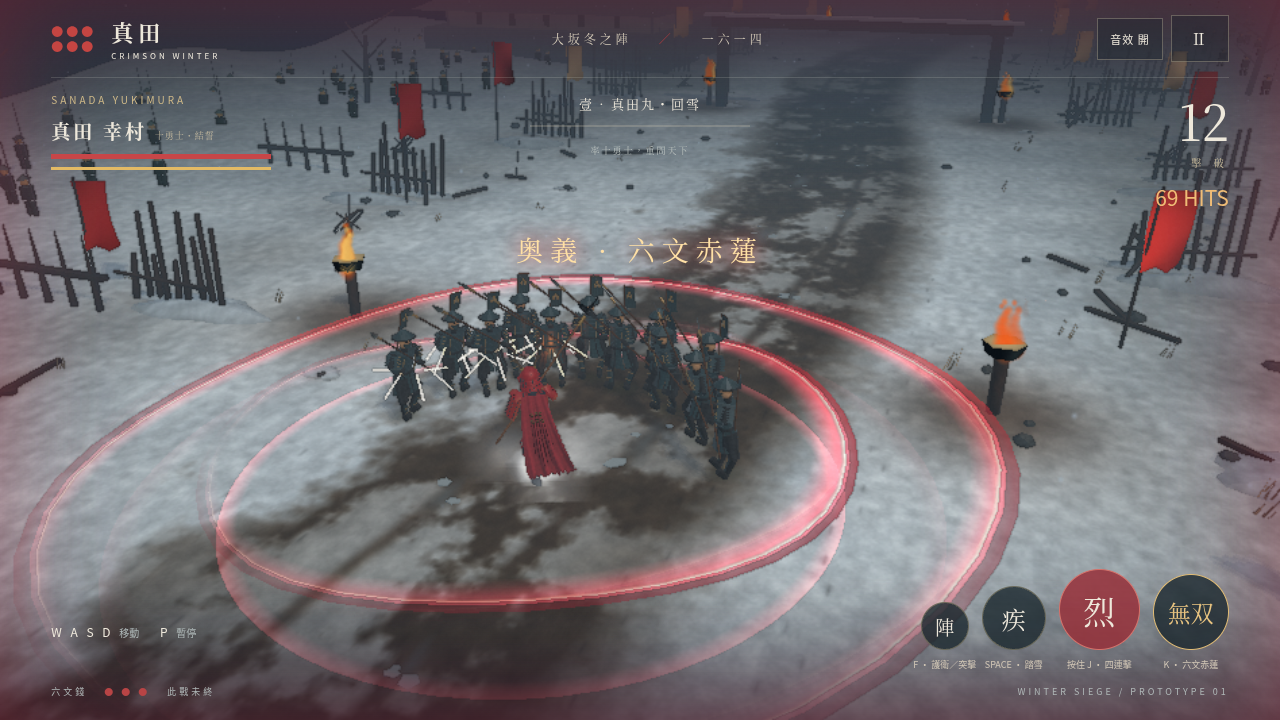
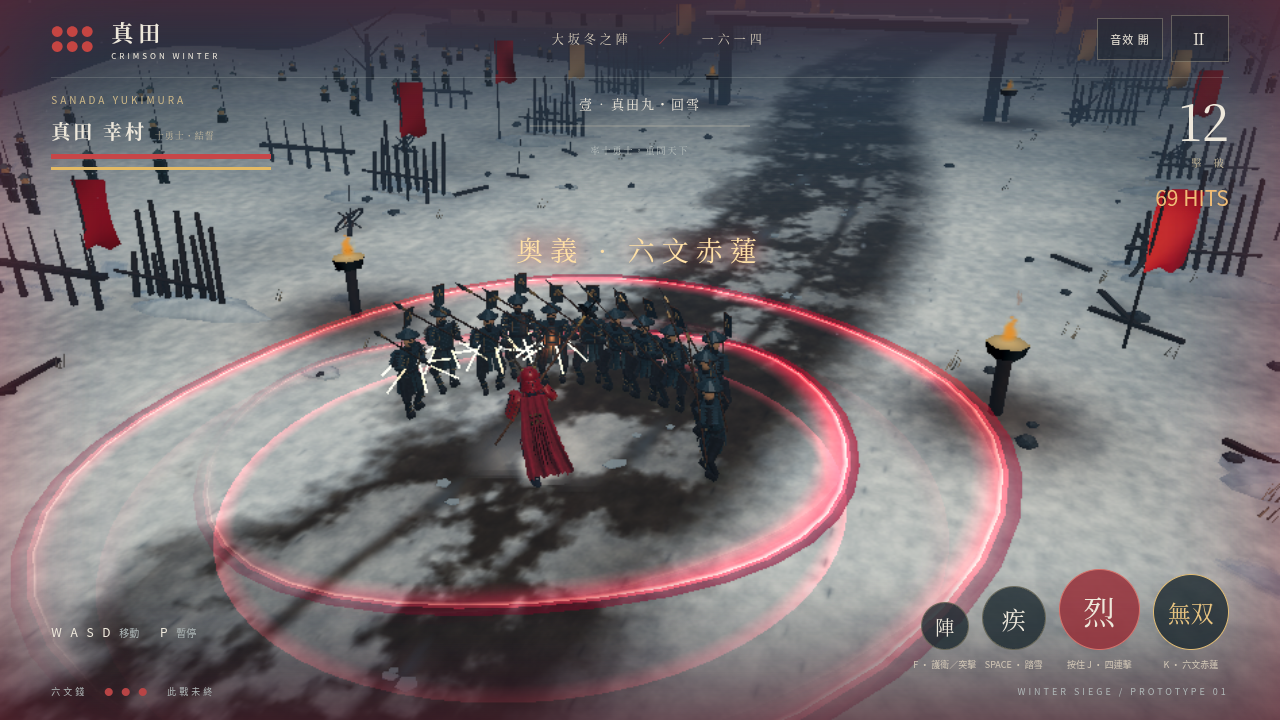
Add filmic lighting and masked lacquer with a mobile post-process budget

diff --git a/src/main.ts b/src/main.ts
@@ -7,6 +7,7 @@ import { BattleAudio } from './battle-audio';
 import { illustrationPass } from './illustration';
 import { battlefield } from './battlefield';
 import { winterReflections } from './lighting';
+import {finishMaterials} from './material-finish';
 import {winterWeather} from './winter-weather';
 import {battleFires} from './battle-fires';
 import {weatheredMaterials} from './environment-materials';
@@ -272,7 +273,7 @@ function visual(dt:number){
  weather.update(dt,target);
  if(announceTime>0){announceTime-=dt;$('announcement').style.opacity=String(Math.min(1,announceTime));}else $('announcement').style.opacity='0';
 }
-async function init(){try{const response=await fetch(`${import.meta.env.BASE_URL}models/crowd-animation.json?rev=storm-9`);if(!response.ok)throw Error('Crowd manifest unavailable');const crowdManifest: CrowdManifest=await response.json();const palettes=await loadPalettes(scene,crowdManifest,`${import.meta.env.BASE_URL}models/`);for(const name of ['yukimura','ashigaru','tokugawa','ieyasu']){const loaded=await SceneLoader.ImportMeshAsync('', `${import.meta.env.BASE_URL}models/`,name+'.glb?rev=storm-9',scene);templates[name]=loaded.meshes[0];templates[name].setEnabled(false);
+async function init(){try{const response=await fetch(`${import.meta.env.BASE_URL}models/crowd-animation.json?rev=storm-9`);if(!response.ok)throw Error('Crowd manifest unavailable');const crowdManifest: CrowdManifest=await response.json();const palettes=await loadPalettes(scene,crowdManifest,`${import.meta.env.BASE_URL}models/`);for(const name of ['yukimura','ashigaru','tokugawa','ieyasu']){const loaded=await SceneLoader.ImportMeshAsync('', `${import.meta.env.BASE_URL}models/`,name+'.glb?rev=storm-9',scene);finishMaterials(scene,loaded.meshes,name);loaded.meshes.forEach(mesh=>mesh.receiveShadows=true);templates[name]=loaded.meshes[0];templates[name].setEnabled(false);
  if(name==='yukimura'){
   // Use the loaded skinned mesh directly so clips target the visible rig.
   hero=new TransformNode('yukimura',scene);templates[name].parent=hero;
@@ -295,6 +296,6 @@ function tick(realDt:number){
 }
 engine.runRenderLoop(()=>{weather.pause(state==='paused'||manualTestClock);fires.pause(state==='paused'||manualTestClock);if(!manualTestClock)tick(Math.min(engine.getDeltaTime()/1000,.05));scene.render();});window.addEventListener('resize',()=>engine.resize());init();
 // Read-only diagnostics are useful for automated smoke tests and performance inspection.
-Object.defineProperty(window,'__sanada',{get:()=>({state,hp,rage,kills,cycle:cfg.cycle,position:hero?{x:hero.position.x,z:hero.position.z}:null,enemies:foes.filter(f=>!f.dead).length,allies:allies.length,models:Object.keys(templates),fps:engine.getFps(),formation,heroAnimation:heroMotion?.state,animationClips:heroMotion?.names,environment:{terrain:scene.getMaterialByName('churned snow and mud')?.getClassName(),staticCasters:staticCasters.length,weatherCapacity:weather.capacity,weatherActive:weather.active,terrainDetail:(scene.getMaterialByName('churned snow and mud') as PBRMaterial)?.detailMap.isEnabled,fireCapacity:fires.capacity,fireActive:fires.active},crowd:{actors:crowdMotions.size,instances:[...crowdMotions.values()].filter(m=>m.mesh.getClassName()==='InstancedMesh').length,allies:allies.map(a=>({state:crowdMotions.get(a)?.state,frame:crowdMotions.get(a)?.frame})),enemies:foes.map(f=>({state:crowdMotions.get(f.root)?.state,frame:crowdMotions.get(f.root)?.frame})),palettes:Object.keys(crowdModels).length},attackIndex:chain.active?.index??-1,attackHistory:[...attackHistory],totalHits,lastStrikeHits,hitStop,musouActive:musouTime>=0,musouPulse,airborne:foes.filter(f=>!f.dead&&f.root.position.y>.2).length,corpses:foes.filter(f=>f.dead).length,effects:combatFX.count,muted:audio.muted})});
+Object.defineProperty(window,'__sanada',{get:()=>({state,hp,rage,kills,cycle:cfg.cycle,position:hero?{x:hero.position.x,z:hero.position.z}:null,enemies:foes.filter(f=>!f.dead).length,allies:allies.length,models:Object.keys(templates),fps:engine.getFps(),formation,heroAnimation:heroMotion?.state,animationClips:heroMotion?.names,look:{toneMapping:scene.imageProcessingConfiguration.toneMappingEnabled,reflectionSize:scene.environmentTexture?.getSize().width,renderWidth:engine.getRenderWidth(),renderHeight:engine.getRenderHeight(),passes:camera._postProcesses.flatMap(p=>p?[{name:p.name,width:p.width,height:p.height,type:p.inputTexture?.texture?.type}]:[]),coats:scene.materials.filter(m=>m instanceof PBRMaterial&&m.clearCoat.isEnabled).map(m=>m.name)},environment:{terrain:scene.getMaterialByName('churned snow and mud')?.getClassName(),staticCasters:staticCasters.length,weatherCapacity:weather.capacity,weatherActive:weather.active,terrainDetail:(scene.getMaterialByName('churned snow and mud') as PBRMaterial)?.detailMap.isEnabled,fireCapacity:fires.capacity,fireActive:fires.active},crowd:{actors:crowdMotions.size,instances:[...crowdMotions.values()].filter(m=>m.mesh.getClassName()==='InstancedMesh').length,allies:allies.map(a=>({state:crowdMotions.get(a)?.state,frame:crowdMotions.get(a)?.frame})),enemies:foes.map(f=>({state:crowdMotions.get(f.root)?.state,frame:crowdMotions.get(f.root)?.frame})),palettes:Object.keys(crowdModels).length},attackIndex:chain.active?.index??-1,attackHistory:[...attackHistory],totalHits,lastStrikeHits,hitStop,musouActive:musouTime>=0,musouPulse,airborne:foes.filter(f=>!f.dead&&f.root.position.y>.2).length,corpses:foes.filter(f=>f.dead).length,effects:combatFX.count,muted:audio.muted})});
 
 if(import.meta.env.DEV && new URLSearchParams(location.search).has('test')){Object.defineProperty(window,'__sanadaTest',{value:{step:(seconds:number)=>{for(let t=0;t<seconds;t+=1/60){tick(1/60);}},setupCombat:(health=30)=>{manualTestClock=true;clearBattle();heroMotion.reset();dashCD=0;dashTime=0;invuln=0;hp=cfg.health;rage=100;hero.position.set(0,0,0);direction.set(0,0,1);spawnClock=60;allyCD=60;for(let i=0;i<12;i++){const a=(i-5.5)*.22;spawn(Math.sin(a)*3,Math.cos(a)*3);}for(const f of foes){f.hp=health;f.maxHp=health;f.cooldown=30;}},setupArmy:()=>{manualTestClock=true;clearBattle();heroMotion.reset();hero.position.set(0,0,0);spawnClock=60;invuln=999;for(let i=0;i<10;i++)allies.push(actor('ashigaru','red-guard',(i%5-2)*1.5,-5-Math.floor(i/5)*2));for(let i=0;i<100;i++){const a=i*Math.PI*2/25,r=8+Math.floor(i/25)*2;spawn(Math.sin(a)*r,Math.cos(a)*r);}updateHUD();},setupFalls:()=>{manualTestClock=true;clearBattle();heroMotion.reset();hero.position.set(0,0,0);spawnClock=60;invuln=999;for(let i=0;i<6;i++){spawn((i%3-1)*3,4+Math.floor(i/3)*3);const f=foes[foes.length-1];f.phase=.4+i;damageEnemy(f,999,2,i%2?2:0);}},inspectEnvironment:(z=0,close=false)=>{manualTestClock=true;clearBattle();heroMotion.reset();hero.position.set(0,0,z);shadowClock=0;visual(0);camera.position.set(close?10:17,close?7:14,z+(close?-8:-18));camera.setTarget(new Vector3(close?3:0,0,z+5));return scene.meshes.filter(m=>['dark meltwater in wheel ruts','thawed earth at object feet'].includes(m.material?.name??'')).map(m=>({name:m.material!.name,vertexAlpha:m.hasVertexAlpha,upward:m.getVerticesData(VertexBuffer.NormalKind)!.filter((_,i)=>i%3===1).every(y=>y>.99),vertices:m.getTotalVertices()}));},snapshot:()=>({falls:foes.filter(f=>f.dead).map(f=>({clip:f.deathClip,age:f.deathAge,duration:f.deathDuration,rootZ:f.root.rotation.z,scale:f.root.scaling.x,landed:f.landed})),bossSpawned,bossHP:foes.find(f=>f.boss)?.hp,enemyCount:foes.length,enemyHP:foes.map(f=>f.hp),heights:foes.map(f=>f.root.position.y),musouTime,attackTime:chain.active?.time??null})}});}

diff --git a/src/illustration.ts b/src/illustration.ts
@@ -2,35 +2,61 @@ import {Scene} from '@babylonjs/core/scene';
 import {Camera} from '@babylonjs/core/Cameras/camera';
 import {PostProcess} from '@babylonjs/core/PostProcesses/postProcess';
 import {Effect} from '@babylonjs/core/Materials/effect';
+import {ExtractHighlightsPostProcess} from '@babylonjs/core/PostProcesses/extractHighlightsPostProcess';
+import {BlurPostProcess} from '@babylonjs/core/PostProcesses/blurPostProcess';
+import {Vector2} from '@babylonjs/core/Maths/math.vector';
+import {Texture} from '@babylonjs/core/Materials/Textures/texture';
 
-/** Dry pigment, restrained ink edges and a cool-shadow/warm-paper palette. */
+/** One display-space grade on touch devices. Desktop adds three quarter-size
+ * native bloom stages; this same grade also merges them, without a second
+ * full-screen resolve. ACES is applied upstream by Babylon materials. */
 export function illustrationPass(scene:Scene,camera:Camera){
+ const bloom=!matchMedia('(pointer:coarse)').matches;
+ let highlights:ExtractHighlightsPostProcess|undefined;
+ if(bloom){
+  // A post-process size controls its INPUT. Keep scene capture full size;
+  // extraction writes to blur-X's quarter-size input, and so on.
+  highlights=new ExtractHighlightsPostProcess('winter highlights',1,camera,Texture.BILINEAR_SAMPLINGMODE);highlights.threshold=.70;
+  new BlurPostProcess('winter bloom horizontal',new Vector2(1,0),9,.25,camera,Texture.BILINEAR_SAMPLINGMODE);
+  new BlurPostProcess('winter bloom vertical',new Vector2(0,1),9,.25,camera,Texture.BILINEAR_SAMPLINGMODE);
+ }
  Effect.ShadersStore['battleInkFragmentShader']=`
  precision highp float;
  varying vec2 vUV;
  uniform sampler2D textureSampler;
+ #ifdef WINTER_BLOOM
+ uniform sampler2D sceneSampler;
+ #endif
  uniform vec2 texel;
  float lum(vec3 c){return dot(c,vec3(.2126,.7152,.0722));}
- float grain(vec2 p){return fract(sin(dot(p,vec2(12.9898,78.233)))*43758.5453);}
+ vec3 sceneAt(vec2 uv){
+ #ifdef WINTER_BLOOM
+ return texture2D(sceneSampler,uv).rgb;
+ #else
+ return texture2D(textureSampler,uv).rgb;
+ #endif
+ }
  void main(){
-  vec3 c=texture2D(textureSampler,vUV).rgb;
-  float l=lum(c);
-  float a=lum(texture2D(textureSampler,vUV+vec2(texel.x,0.)).rgb);
-  float b=lum(texture2D(textureSampler,vUV-vec2(texel.x,0.)).rgb);
-  float d=lum(texture2D(textureSampler,vUV+vec2(0.,texel.y)).rgb);
-  float e=lum(texture2D(textureSampler,vUV-vec2(0.,texel.y)).rgb);
-  float edge=smoothstep(.07,.28,length(vec2(a-b,d-e)));
-  vec3 ink=vec3(.035,.060,.083),paper=vec3(.94,.89,.77);
-  vec3 toned=mix(ink,c,smoothstep(.0,.22,l));
-  toned=mix(toned,paper,smoothstep(.68,1.,l)*.20);
-  // Preserve vermilion and the warm key/cool shadow separation. A light ink
-  // accent should not turn distant, animated armour into black cardboard.
-  toned*=1.-edge*.17;
-  float fiber=(grain(floor(gl_FragCoord.xy))-.5)*.010;
-  float vignette=smoothstep(.20,.77,length(vUV-.5));
-  gl_FragColor=vec4(toned*(1.-vignette*.17)+fiber,1.);
+  vec3 c=sceneAt(vUV);
+  vec3 a=sceneAt(vUV+vec2(texel.x,0.)),b=sceneAt(vUV-vec2(texel.x,0.));
+  vec3 d=sceneAt(vUV+vec2(0.,texel.y)),e=sceneAt(vUV-vec2(0.,texel.y));
+  // Reuse the original five samples for restrained local contrast. Clamp to
+  // neighbours to keep snow edges and spear silhouettes free of bright halos.
+  vec3 lo=min(c,min(min(a,b),min(d,e))),hi=max(c,max(max(a,b),max(d,e)));
+  c=clamp(c+(c-(a+b+d+e)*.25)*.16,lo,hi);
+  float l=lum(c),key=smoothstep(.12,.78,l);
+  c*=mix(vec3(.95,.987,1.045),vec3(1.038,1.012,.967),key);
+  c=mix(vec3(lum(c)),c,1.045);
+  c=(c-.40)*1.035+.40;
+  float edge=smoothstep(.10,.35,length(vec2(lum(a)-lum(b),lum(d)-lum(e))));
+  c*=1.-edge*.035;
+ #ifdef WINTER_BLOOM
+  c+=texture2D(textureSampler,vUV).rgb*.075;
+ #endif
+  float vignette=smoothstep(.28,.78,length(vUV-.5));
+  gl_FragColor=vec4(clamp(c*(1.-vignette*.075),0.,1.),1.);
  }`;
- const pass=new PostProcess('battle ink','battleInk',['texel'],null,1,camera);
- pass.onApply=effect=>effect.setFloat2('texel',1/scene.getEngine().getRenderWidth(),1/scene.getEngine().getRenderHeight());
+ const pass=new PostProcess('winter film grade','battleInk',['texel'],bloom?['sceneSampler']:null,bloom?.25:1,camera,Texture.BILINEAR_SAMPLINGMODE,undefined,false,bloom?'#define WINTER_BLOOM':undefined);
+ pass.onApply=effect=>{effect.setFloat2('texel',1/scene.getEngine().getRenderWidth(),1/scene.getEngine().getRenderHeight());if(highlights)effect.setTextureFromPostProcess('sceneSampler',highlights);};
  return pass;
 }

diff --git a/src/lighting.ts b/src/lighting.ts
@@ -3,26 +3,32 @@ import {RawCubeTexture} from '@babylonjs/core/Materials/Textures/rawCubeTexture'
 import {Constants} from '@babylonjs/core/Engines/constants';
 import {Vector3} from '@babylonjs/core/Maths/math.vector';
 import {SphericalPolynomial} from '@babylonjs/core/Maths/sphericalPolynomial';
+import {ImageProcessingConfiguration} from '@babylonjs/core/Materials/imageProcessingConfiguration';
 import '@babylonjs/core/Materials/Textures/baseTexture.polynomial';
 import '@babylonjs/core/Engines/Extensions/engine.rawTexture';
 
 /** Small local sky reflection, no external HDRI downloads or frame-by-frame capture. */
 export function winterReflections(scene:Scene){
- const size=32,faces:Uint8Array[]=[];
- const sun=new Vector3(-.5,.7,-.5).normalize();
+ const size=64,faces:Uint8Array[]=[];
+ const sun=new Vector3(.55,.8,-.5).normalize();
  for(let face=0;face<6;face++){
   const data=new Uint8Array(size*size*4);
   for(let y=0;y<size;y++)for(let x=0;x<size;x++){
    const u=2*(x+.5)/size-1,v=2*(y+.5)/size-1;
    const d=[new Vector3(1,-v,-u),new Vector3(-1,-v,u),new Vector3(u,1,v),new Vector3(u,-1,-v),new Vector3(u,-v,1),new Vector3(-u,-v,-1)][face].normalize();
-   const sky=Math.max(0,d.y),ground=Math.max(0,-d.y),key=Math.pow(Math.max(0,Vector3.Dot(d,sun)),42);
-   const rgb=[.19+sky*.30+ground*.14+key*.60,.23+sky*.38+ground*.12+key*.49,.28+sky*.47+ground*.09+key*.34];
+   const sky=Math.max(0,d.y),ground=Math.max(0,-d.y),key=Math.pow(Math.max(0,Vector3.Dot(d,sun)),30);
+   const cloud=.77+.23*Math.sin(d.x*9+d.z*4)*Math.sin(d.z*7-d.y*5);
+   const horizon=Math.pow(1-Math.abs(d.y),6),rim=Math.pow(Math.max(0,d.x*.7+d.z*.7),12)*sky;
+   const opening=Math.pow(Math.max(0,d.x*.2+d.y*.9-d.z*.4),6);
+   const rgb=[.045+sky*.36*cloud+ground*.045+horizon*.13+key*.74+rim*.08+opening*.38,.058+sky*.45*cloud+ground*.042+horizon*.12+key*.61+rim*.15+opening*.40,.077+sky*.60*cloud+ground*.033+horizon*.11+key*.42+rim*.24+opening*.42];
    const i=(y*size+x)*4;for(let c=0;c<3;c++)data[i+c]=Math.round(Math.min(1,rgb[c])*255);data[i+3]=255;
   }faces.push(data);
  }
  const env=new RawCubeTexture(scene,faces,size,Constants.TEXTUREFORMAT_RGBA,Constants.TEXTURETYPE_UNSIGNED_BYTE,true,false,Constants.TEXTURE_TRILINEAR_SAMPLINGMODE);
  env.name='local-winter-sky';env.gammaSpace=false;
  // Low-frequency diffuse irradiance; directional highlights come from sun + cubemap.
- const sp=new SphericalPolynomial();sp.xx.set(.30,.35,.40);sp.yy.set(.30,.35,.40);sp.zz.set(.30,.35,.40);env.sphericalPolynomial=sp;
- scene.environmentTexture=env;scene.environmentIntensity=.8;
+ const sp=new SphericalPolynomial();sp.xx.set(.20,.24,.29);sp.yy.set(.20,.24,.29);sp.zz.set(.20,.24,.29);sp.y.set(.075,.09,.11);env.sphericalPolynomial=sp;
+ scene.environmentTexture=env;scene.environmentIntensity=1;
+ // Native material tone mapping, once, before our display-space grade.
+ const image=scene.imageProcessingConfiguration;image.toneMappingEnabled=true;image.toneMappingType=ImageProcessingConfiguration.TONEMAPPING_ACES;image.exposure=1.35;image.contrast=1;image.applyByPostProcess=false;
 }

diff --git a/tools/model-preview.html b/tools/model-preview.html
@@ -1,1 +1,1 @@
-<!doctype html><html lang="zh-Hant"><meta charset="utf-8"><meta name="viewport" content="width=device-width,initial-scale=1"><title>真田幸村 · 即時模型檢視</title><style>html,body{margin:0;background:#202c31;color:#e6dcc6;font-family:serif;height:100%}canvas{width:100%;height:100%;display:block;outline:none}aside{position:absolute;left:32px;top:24px;pointer-events:none}h1{font-size:26px;letter-spacing:.2em;margin:8px 0}p{font:12px sans-serif;letter-spacing:.12em;color:#b2b6b3}nav{position:absolute;bottom:25px;left:32px;display:flex;gap:8px}button{background:#283539;color:#e7dfcd;border:1px solid #747668;padding:10px 18px;cursor:pointer}small{color:#b5a185}</style><canvas id="view"></canvas><aside><small>赤冬 · 高模烘焙 · 可玩模型 / v9</small><h1>真田幸村</h1><p>實際 GLB · Babylon.js 即時渲染</p><p>拖曳旋轉 · 滾輪縮放</p></aside><nav><button data-clip="idle">待機</button><button data-clip="run">奔襲</button><button data-clip="slash">橫掃</button><button data-clip="reverse">反掃</button><button data-clip="thrust">突刺</button><button data-clip="spin">迴旋</button><button data-clip="dash">衝刺</button><button data-clip="hurt">受擊</button><button data-clip="fall">跪撐倒地</button><button data-clip="fall_back">後仰倒地</button><button id="back">背面</button></nav><script type="module" src="/tools/model-preview.ts"></script></html>
+<!doctype html><html lang="zh-Hant"><meta charset="utf-8"><link rel="icon" href="/favicon.svg"><meta name="viewport" content="width=device-width,initial-scale=1"><title>真田幸村 · 即時模型檢視</title><style>html,body{margin:0;background:#202c31;color:#e6dcc6;font-family:serif;height:100%}canvas{width:100%;height:100%;display:block;outline:none}aside{position:absolute;left:32px;top:24px;pointer-events:none}h1{font-size:26px;letter-spacing:.2em;margin:8px 0}p{font:12px sans-serif;letter-spacing:.12em;color:#b2b6b3}nav{position:absolute;bottom:25px;left:32px;display:flex;gap:8px}button{background:#283539;color:#e7dfcd;border:1px solid #747668;padding:10px 18px;cursor:pointer}small{color:#b5a185}</style><canvas id="view"></canvas><aside><small>赤冬 · 高模烘焙 · 可玩模型 / v9</small><h1>真田幸村</h1><p>實際 GLB · Babylon.js 即時渲染</p><p>拖曳旋轉 · 滾輪縮放</p></aside><nav><button data-clip="idle">待機</button><button data-clip="run">奔襲</button><button data-clip="slash">橫掃</button><button data-clip="reverse">反掃</button><button data-clip="thrust">突刺</button><button data-clip="spin">迴旋</button><button data-clip="dash">衝刺</button><button data-clip="hurt">受擊</button><button data-clip="fall">跪撐倒地</button><button data-clip="fall_back">後仰倒地</button><button id="back">背面</button></nav><script type="module" src="/tools/model-preview.ts"></script></html>

diff --git a/tools/model-preview.ts b/tools/model-preview.ts
@@ -14,6 +14,7 @@ import '@babylonjs/loaders/glTF/glTFFileLoader';
 import '@babylonjs/loaders/glTF/2.0/glTFLoader';
 import {winterReflections} from '../src/lighting';
 import {illustrationPass} from '../src/illustration';
+import {finishMaterials} from '../src/material-finish';
 const canvas=document.querySelector('canvas')!;
 const engine=new Engine(canvas,true,{preserveDrawingBuffer:true});
 const scene=new Scene(engine);scene.clearColor=new Color4(.12,.17,.19,1);
@@ -25,6 +26,7 @@ const shadows=new ShadowGenerator(1024,sun);shadows.usePoissonSampling=true;shad
 const ground=MeshBuilder.CreateGround('ground',{width:100,height:100},scene);ground.receiveShadows=true;const mat=new StandardMaterial('ash',scene);mat.diffuseColor=new Color3(.18,.21,.21);mat.specularColor=Color3.Black();ground.material=mat;
 const requested=new URLSearchParams(location.search).get('model')||'yukimura';const kind=['yukimura','ashigaru','tokugawa','ieyasu'].includes(requested)?requested:'yukimura';
 const loaded=await SceneLoader.ImportMeshAsync('','/models/',kind+'.glb?rev=storm-9',scene);
+finishMaterials(scene,loaded.meshes,kind);
 document.querySelector('h1')!.textContent=({yukimura:'真田幸村',ashigaru:'赤備足輕',tokugawa:'德川足輕',ieyasu:'家康・修羅之影'} as Record<string,string>)[kind];
 loaded.meshes.forEach(m=>{m.receiveShadows=true;shadows.addShadowCaster(m)});
 function play(name:string){for(const g of loaded.animationGroups)g.stop();loaded.animationGroups.find(g=>g.name===name)!.start(true);}

diff --git a/src/material-finish.ts b/src/material-finish.ts
@@ -1,0 +1,18 @@
+import {Scene} from '@babylonjs/core/scene';
+import {AbstractMesh} from '@babylonjs/core/Meshes/abstractMesh';
+import {PBRMaterial} from '@babylonjs/core/Materials/PBR/pbrMaterial';
+import {Texture} from '@babylonjs/core/Materials/Textures/texture';
+
+/** Reuse baked AO. Only the two commanders pay for a masked lacquer lobe. */
+export function finishMaterials(scene:Scene,meshes:AbstractMesh[],kind:string){
+ const materials=new Set(meshes.map(mesh=>mesh.material));
+ for(const material of materials){
+  if(!(material instanceof PBRMaterial))continue;
+  material.maxSimultaneousLights=4;material.environmentIntensity=.95;material.enableSpecularAntiAliasing=true;
+  material.ambientTexture=material.metallicTexture;material.useAmbientInGrayScale=true;material.ambientTextureStrength=.42;material.ambientTextureImpactOnAnalyticalLights=0;
+  if(kind==='yukimura'||kind==='ieyasu'){
+   const coat=new Texture(`${import.meta.env.BASE_URL}look/${kind}-coat.png?rev=light-11`,scene,false,false);coat.gammaSpace=false;
+   material.clearCoat.isEnabled=true;material.clearCoat.intensity=.55;material.clearCoat.roughness=1;material.clearCoat.texture=coat;
+  }
+ }
+}

diff --git a/src/crowd-motion.ts b/src/crowd-motion.ts
@@ -30,7 +30,7 @@ export class CrowdModel {
   const mesh=this.source.createInstance(root.name+'-body');mesh.parent=root;
   const s=Vector3.One(),q=Quaternion.Identity(),p=Vector3.Zero();this.source.computeWorldMatrix(true).decompose(s,q,p);
   mesh.scaling.copyFrom(s.scale(scale));mesh.rotationQuaternion=q;mesh.position.copyFrom(p);
-  mesh.instancedBuffers[attribute]=new Vector4(0,0,0,0);mesh.isPickable=false;
+  mesh.instancedBuffers[attribute]=new Vector4(0,0,0,0);mesh.isPickable=false;mesh.receiveShadows=true;
   return new CrowdMotion(mesh,this.palette,phase);
  }
 }

diff --git a/tools/build_finish.py b/tools/build_finish.py
@@ -1,0 +1,23 @@
+"""Reuse baked surface data to mask lacquer, leaving cloth and bare metal matte.
+No new bake or paid API: Blender NumPy, deterministic box downsample.
+"""
+import bpy,json,struct,hashlib
+import numpy as np
+from pathlib import Path
+ROOT=Path(__file__).resolve().parent.parent
+OUT=ROOT/'public/look';OUT.mkdir(exist_ok=True)
+report={}
+for kind,size in [('yukimura',512),('ieyasu',256)]:
+    raw=(ROOT/'public/models'/f'{kind}.glb').read_bytes();g=json.loads(raw[20:20+struct.unpack_from('<I',raw,12)[0]])
+    index=g['materials'][0]['pbrMetallicRoughness']['metallicRoughnessTexture']['index']
+    uri=g['images'][g['textures'][index]['source']]['uri'];source=ROOT/'public/models'/uri
+    image=bpy.data.images.load(str(source));image.colorspace_settings.name='Non-Color';w,h=image.size
+    pixels=np.empty(w*h*4,np.float32);image.pixels.foreach_get(pixels);p=pixels.reshape(h,w,4)
+    mask=np.clip((.72-p[:,:,1])/.16,0,1)*np.clip((.38-p[:,:,2])/.16,0,1)*(p[:,:,0]>.01)
+    small=mask.reshape(size,h//size,size,w//size).mean(axis=(1,3))
+    rgba=np.ones((size,size,4),np.float32);rgba[:,:,0]=small;rgba[:,:,1]=.30;rgba[:,:,2]=0
+    out=bpy.data.images.new(kind+' lacquer mask',size,size,alpha=False);out.colorspace_settings.name='Non-Color';out.pixels.foreach_set(rgba.ravel());out.filepath_raw=str(OUT/f'{kind}-coat.png');out.file_format='PNG';out.save()
+    data=Path(out.filepath_raw).read_bytes();report[kind]={'uri':f'{kind}-coat.png','size':size,'bytes':len(data),'sha256':hashlib.sha256(data).hexdigest(),'source':uri,'source_sha256':hashlib.sha256(source.read_bytes()).hexdigest()}
+    bpy.data.images.remove(image);bpy.data.images.remove(out)
+(OUT/'manifest.json').write_text(json.dumps(report,indent=2)+'\n')
+print(json.dumps(report,indent=2))

diff --git a/docs/ENVIRONMENT.md b/docs/ENVIRONMENT.md
@@ -19,3 +19,15 @@
 v10 共 19 張環境貼圖、8,766,781 bytes，比 v8／v9 增加 555,171 bytes。`node tools/capture-environment.mjs` 保存 `winter-ground.png`、`winter-gate.png`、`winter-camp.png`：這三張為實際遊戲場景的開發檢視鏡頭，隱藏 HUD／近景軍隊以檢查材質；一般玩家鏡頭的實戰另見 `battle.png` 與 `mobile.png`。
 
 目前已驗證 Chromium 軟體 WebGL 與手機尺寸／觸控流程；材質和靜態投影增加了紋理記憶體及繪圖成本，尚無實體手機幀率資料。
+
+## v11：低成本材質光照與電影調色
+
+- Babylon.js 材質端啟用 ACES tone mapping，曝光 1.35；後製只做顯示色域的冷暖調色、微量局部對比及暗角，避免二次 tone mapping。原本五次取樣的墨色處理改為保留陰影細節、較淡的輪廓和受限銳化；移除紙色高光覆蓋與顆粒，保留真田赤紅。
+- 共用天空反射由每面 32² 改成 64²，加入天空／地面差異、暖色開口與冷色側光。啟動時建立一次；仍是近似天空，不是 HDRI 實景、動態反射或即時全域光照。
+- 重用角色既有 ORM 的紅色 AO 通道，讓接縫與甲片遮蔽影響環境光。人物及群兵接收既有 shadow map；沒有新增光源或陰影貼圖。
+- 幸村與家康啟用帶遮罩的原生 clear coat。`npm run look` 從現有烘焙表面資料辨識低金屬度、較低粗糙度的漆甲；布料、木頭、皮膚與裸金屬不套漆層。兩張遮罩分別 512²／256²，共 **99,739 bytes**，不必重烘焙高模。兩種小兵不啟用 clear coat，仍共用材質與 GPU 動畫。
+- 觸控裝置保留 **一層後製、五次場景取樣**。桌面增加原生亮部抽取和兩次分離模糊，三個中間結果都只有四分之一寬高（各為完整畫面的 1/16 像素）；既有調色步驟一併合成光暈。使用 8-bit 色彩目標，沒有額外的全尺寸合成步驟、SSAO、景深、SSR 或光追。
+
+PostProcess 的尺寸參數控制「輸入目標」，不是最後輸出大小。桌面的第一個場景輸入保持完整尺寸，最終調色同時讀取該原圖及小尺寸模糊圖，避免把整個遊戲降成四分之一解析度。實際檢查在 `docs/screenshots/lighting-budget.json`：1066×666 原始場景，三個 266×166 中間目標。這是渲染配置證據，**不是增加 18.75% GPU 時間或真機 FPS 的測量**。
+
+`tools/capture-look.mjs` 保存同一鏡頭／人物姿勢的 `lighting-after.png`、`material-after.png`；`*-before.png` 是 `0ff0bef` 原版的實際引擎截圖。環境風雪和火舌相位會不同，沒有替換模型、合成插畫或宣稱已達完整 3A 資產品質。完整重建 `npm run models` 會同步更新漆甲遮罩；單獨更換烘焙貼圖後也須執行 `npm run look`，測試會檢查來源雜湊。

diff --git a/docs/VALIDATION.md b/docs/VALIDATION.md
@@ -139,3 +139,15 @@
 - 更新實際桌面／手機戰鬥畫面，新增三張開發鏡頭環境檢視：`winter-ground.png`、`winter-gate.png`、`winter-camp.png`。檢視圖隱藏 HUD 和近景軍隊，展示的是同一份遊戲場景，沒有合成概念插畫。
 
 限制：融水反射來自共享天空，沒有即時場景反射；泥污、腳印、雪堆仍是預製佈景，沒有動態積雪、足跡或泥水物理。城樓與營地建物仍是簡化幾何，尚未達到設定插畫精度；手機測試為觸控／尺寸模擬，並非真機 FPS 測量。
+
+## 輕量電影調色、漆甲與環境反射 v11（2026-10-12）
+
+- 使用 Babylon.js 原生材質 ACES、64² 天空反射與帶遮罩 clear coat；重用既有 AO、ORM、法線及 shadow map。模型網格／動畫／主要烘焙貼圖不變。兩張漆甲遮罩共 99,739 bytes，本機 Blender NumPy 從舊烘焙資料生成，沒有 Modal 或付費 API。
+- 觸控裝置保留一個五次取樣的調色步驟；桌面加原生亮部抽取及分離模糊，在同一個調色步驟合成光暈。實際目標尺寸為 1066×666 原始場景、三個 266×166 中間目標，全部使用 8-bit 色彩。未增加光源、陰影貼圖、幾何渲染回合、SSAO、SSR 或景深。
+- 第一版暗部偏重，提高曝光至 1.35，保留布料／泥土細節。擷取 `0ff0bef` 基線與修改後的相同鏡頭／姿勢畫面，保存於 `lighting-before/after.png`、`material-before/after.png`。這些是引擎實際輸出，沒有生成式修圖；天空、火舌與風雪相位可能不同。
+- `npm test`：22/22 通過。新增遮罩來源烘焙雜湊、PNG 尺寸與 120 KB 總預算檢查。
+- 最終 `npm run test:e2e`：8/8 通過（2.8 分鐘）。保留百人軍勢、倒地、勝敗、周目與戰技；桌面新增實際後製目標尺寸／資料型別檢查，手機確認單層完整解析度後製。頁面和 shader console errors 也列為測試失敗。
+- 首次測試有 7 項通過，通關項目因測試期間修改濾鏡觸發開發伺服器頁面重新載入而中断；固定版本後完整重跑通過。沒有移除斷言或忽略錯誤。模型檢視頁補上 favicon，消除擷取時的 404。
+- `npm run test:pages`：1/1 通過（16.3 秒），驗證 `/yukimura/` 包含兩張新遮罩、19 張環境貼圖、四模型、九張角色貼圖、兩份動畫 palette，且能開始遊戲。TypeScript、Python 語法與 diff whitespace 檢查通過。
+
+限制：這是材質與後製的成本配置驗證，不是實體手機 FPS／功耗基準，也不是完整 3A 資產品質。天空是程序近似，沒有即時場景反射；漆甲遮罩由既有表面參數推導，並非重新手繪材質或雕刻。
